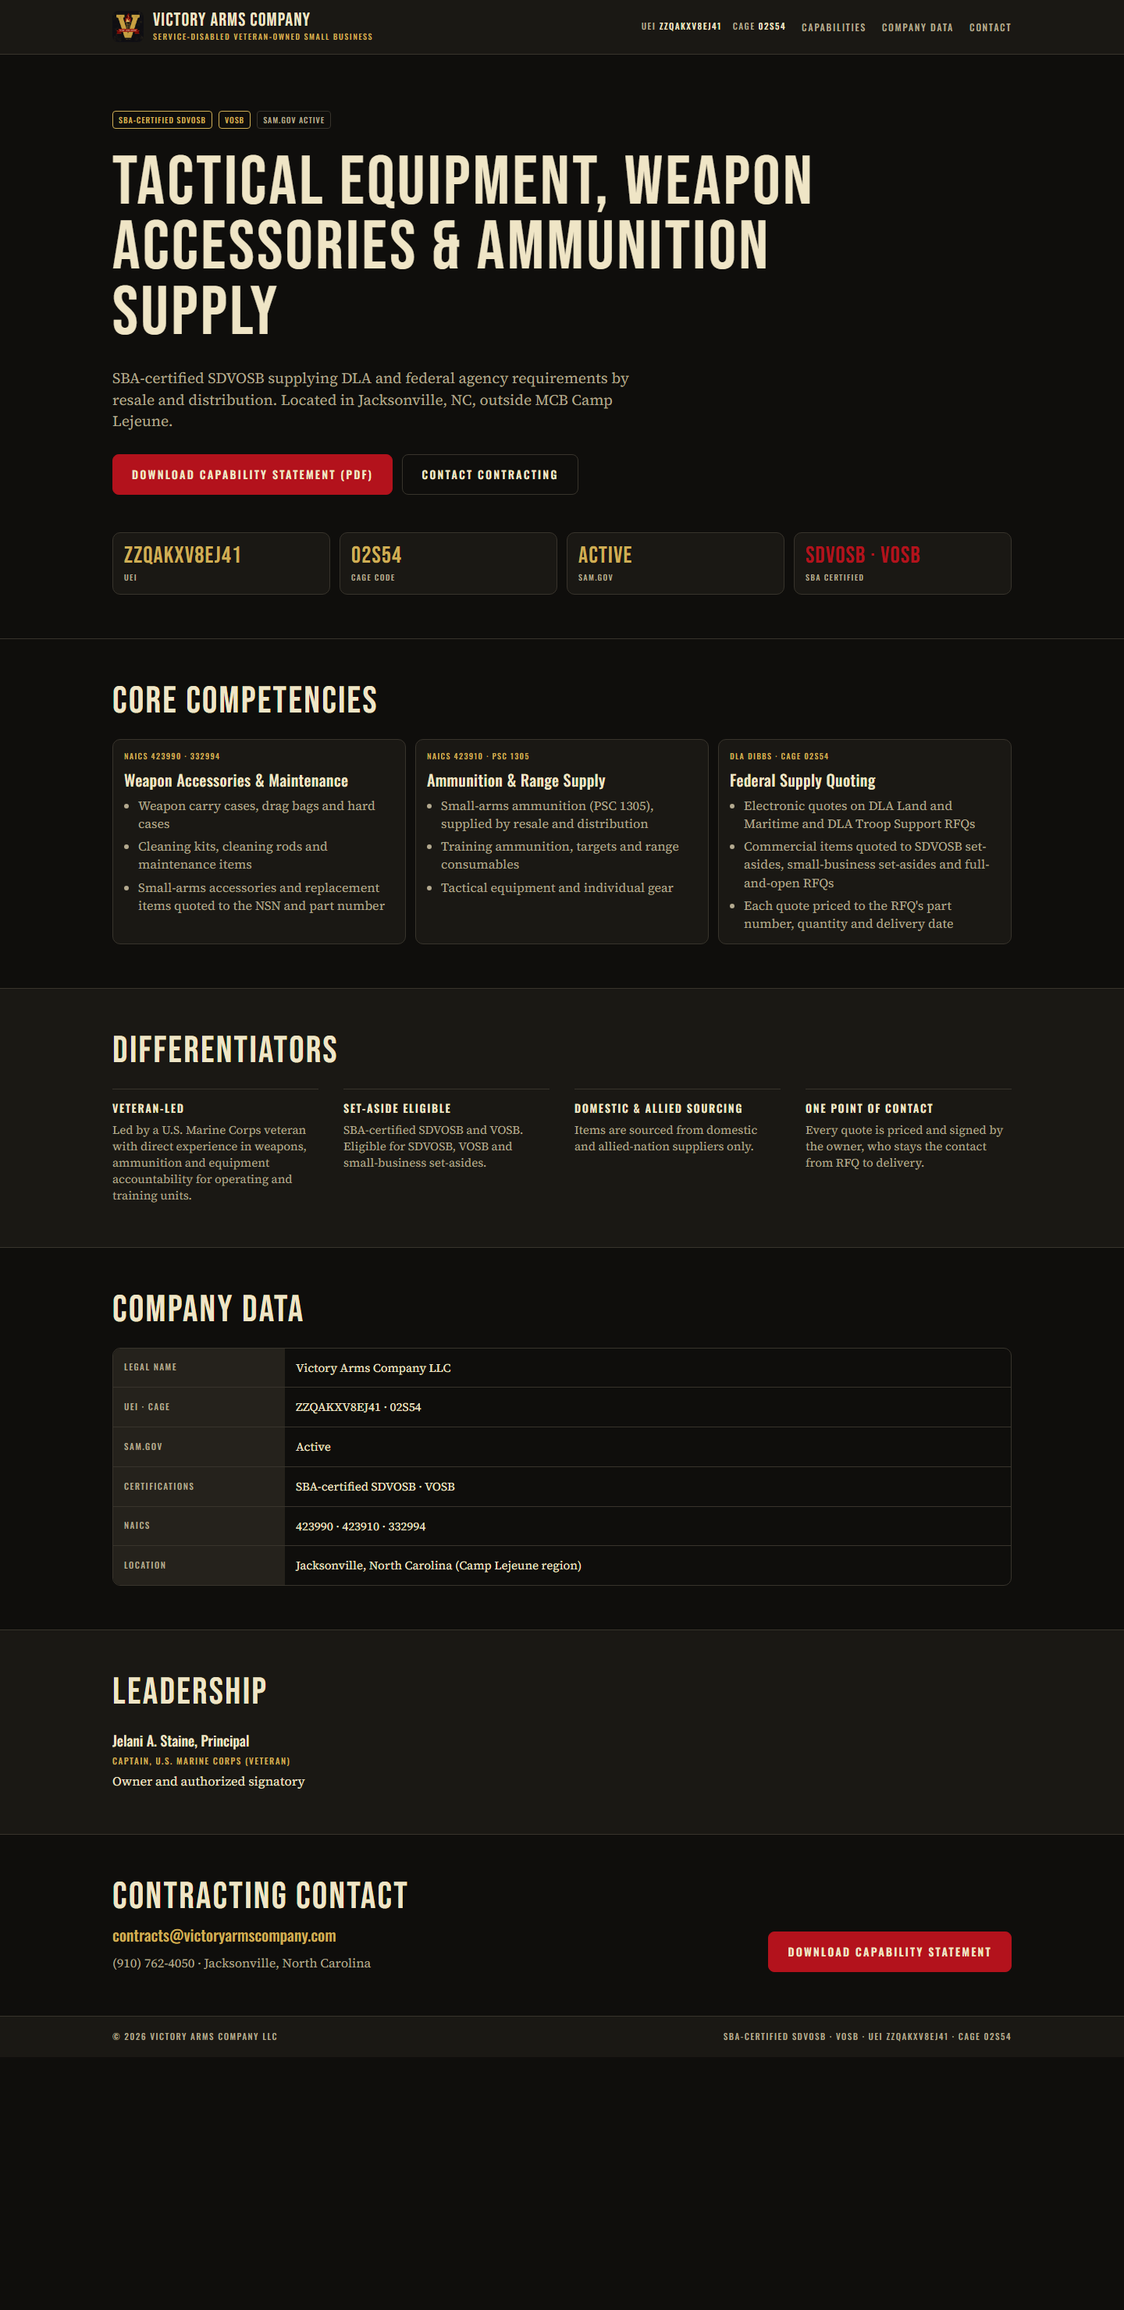
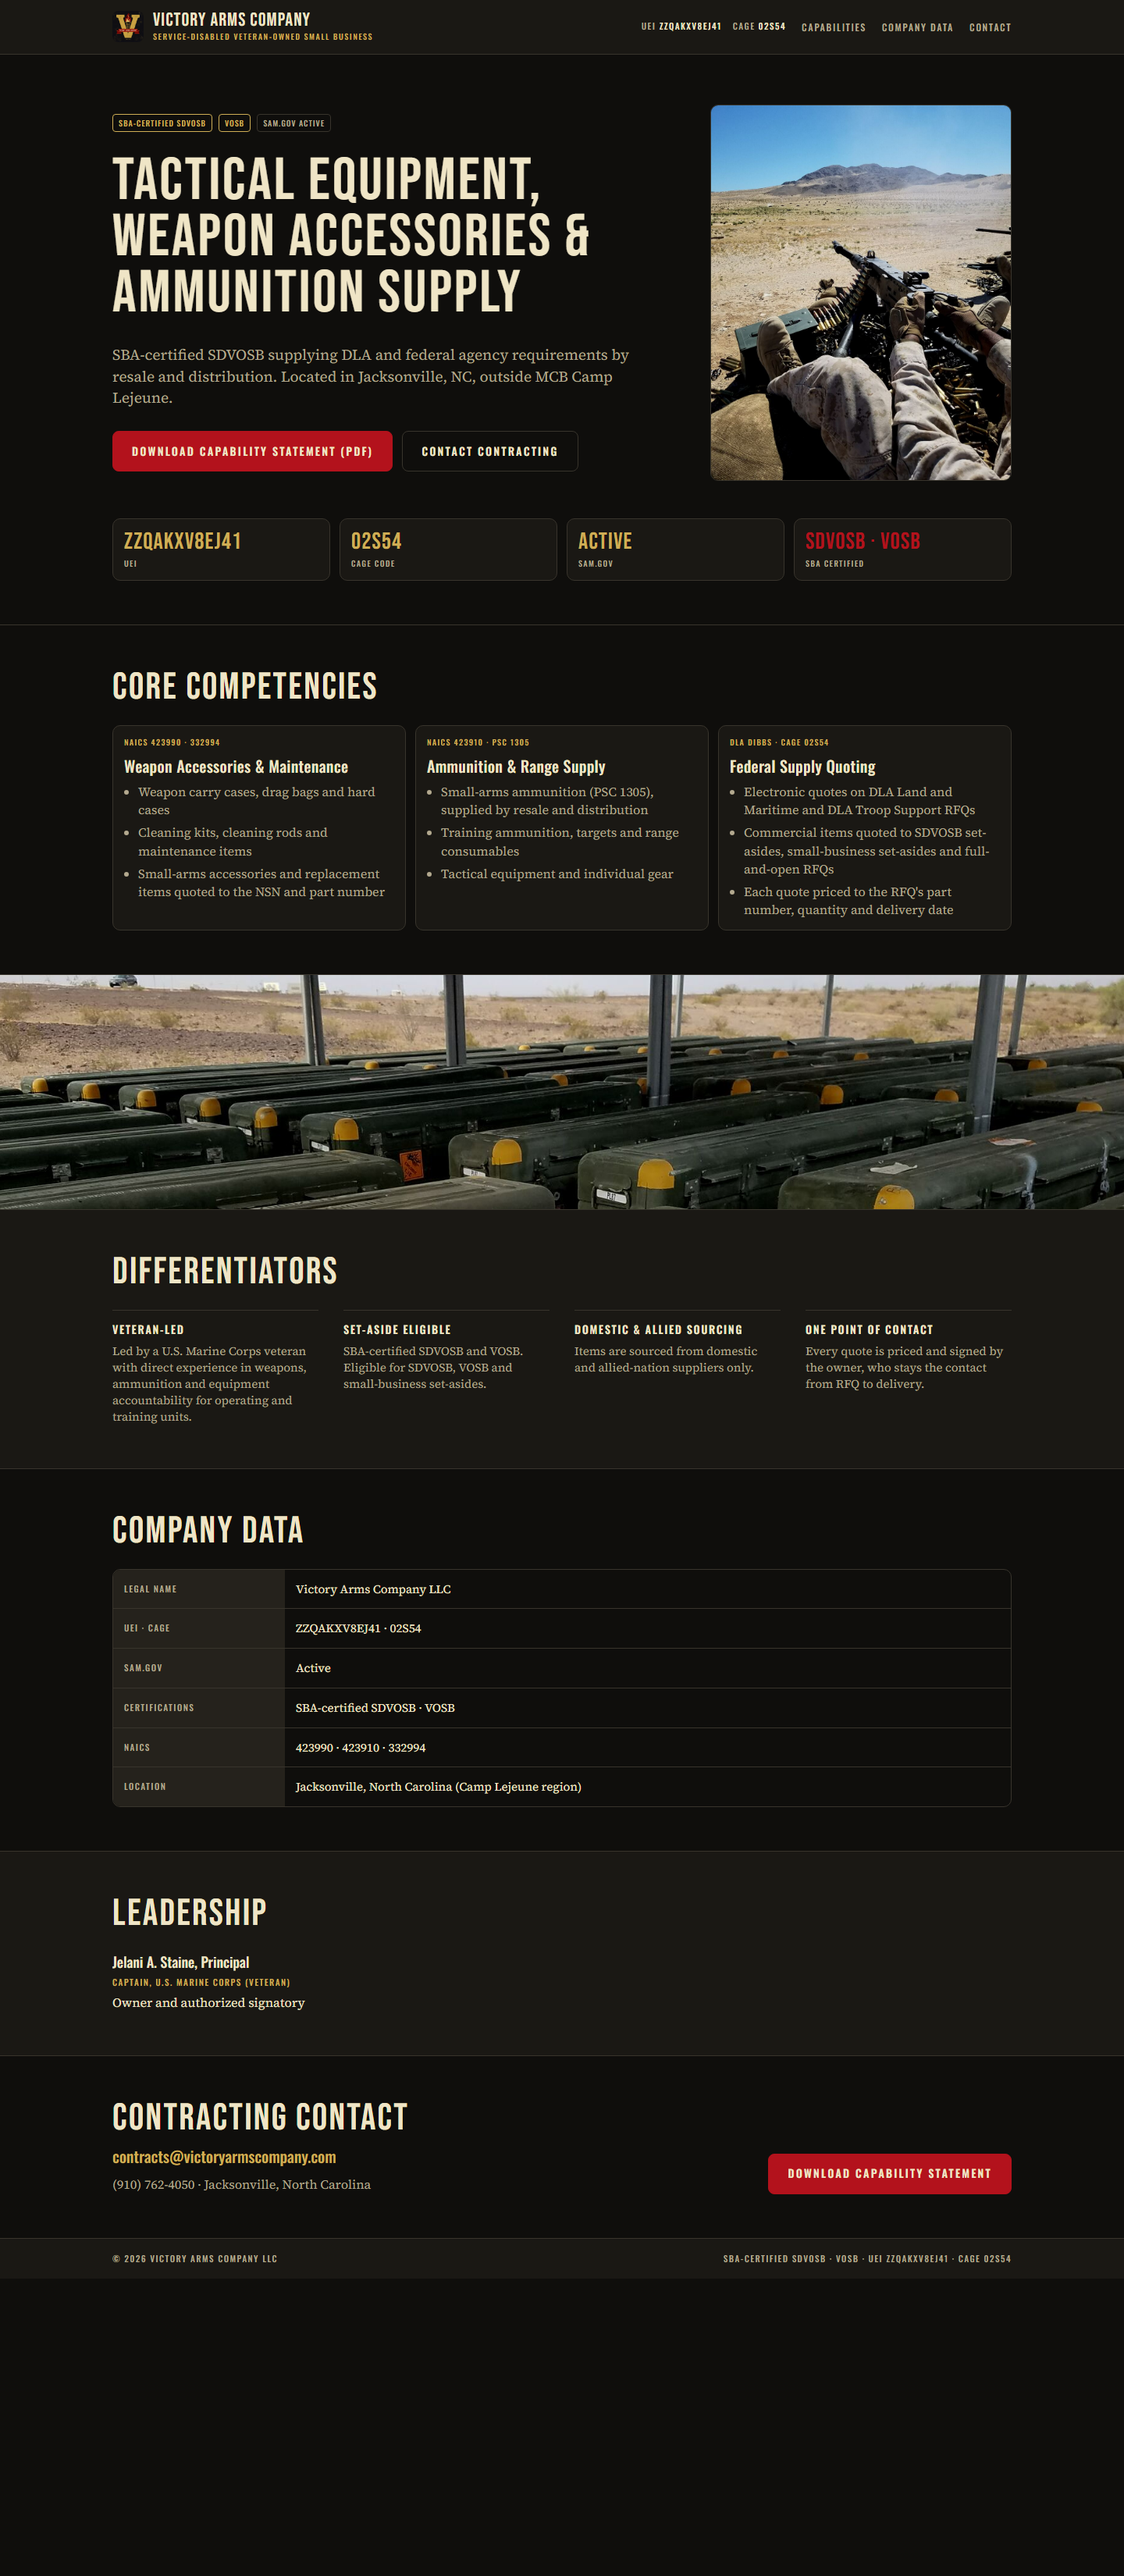
Add two owner photos to the site: hero range photo and a staging band
- Hero is two columns on desktop with the photo at right; on phones the
  photo sits under the buttons.
- A full-width band of staged containers sits between Core Competencies
  and Differentiators, cropped so stencilled markings are out of frame.
- Photos are web-sized, graded and stripped of all metadata; QA now checks
  size, EXIF, alt text and dimensions.
- The Capability Statement PDF is unchanged.

diff --git a/assets/site.css b/assets/site.css
@@ -136,6 +136,15 @@ h1, h2, h3, p, ul { margin: 0; }
 }
 .hero .sub { font-size: 18px; line-height: 1.45; color: var(--muted); max-width: 720px; }
 
+.hero-copy { display: flex; flex-direction: column; gap: 22px; min-width: 0; }
+.hero-photo { display: block; }
+.hero-photo img {
+  display: block; width: 100%; height: auto;
+  border: 1px solid var(--border); border-radius: 10px;
+}
+.band-photo { margin: 0; border-top: 1px solid var(--border); background: var(--surface); }
+.band-photo img { display: block; width: 100%; height: auto; }
+
 /* Metric tiles */
 .tiles { padding: 0 0 40px; }
 .tile-grid { display: grid; grid-template-columns: 1fr 1fr; gap: 12px; }
@@ -215,8 +224,14 @@ dl.data { margin: 0; }
   }
   .nav a { color: var(--muted); }
   .nav a:hover { color: var(--text); }
-  .hero { padding: 72px 0 48px; }
-  .hero .wrap { gap: 28px; }
+  .hero { padding: 64px 0 48px; }
+  .hero .wrap {
+    display: grid; grid-template-columns: minmax(0, 1.3fr) minmax(0, 0.7fr);
+    gap: 48px; align-items: center;
+  }
+  .hero-copy { gap: 28px; }
+  .hero h1 { font-size: clamp(48px, 5.4vw, 76px); }
+  .band-photo img { height: 300px; object-fit: cover; }
   .hero .sub { font-size: 19px; }
   .btn { font-size: 14px; letter-spacing: 0.16em; padding: 0 24px; }
   .btn-row { flex-direction: row; flex-wrap: wrap; }
@@ -239,7 +254,7 @@ dl.data { margin: 0; }
 @media print {
   html, body { background: var(--text); color: var(--bg); }
   body { font-size: 11pt; }
-  .skip, .nav, .btn-row, .contact .btn { display: none; }
+  .skip, .nav, .btn-row, .contact .btn, .hero-photo, .band-photo { display: none; }
   .site-header, .site-footer, .section.alt, .card, .tile { background: transparent; }
   .lockup-name, .ids b, .leader .role, .card h3 { color: var(--bg); }
   .lockup-tag, .card .codes, .leader .service, .badge.cert, .tile .value { color: var(--red); }

diff --git a/index.html b/index.html
@@ -38,6 +38,7 @@
 <main id="main">
 <section class="hero" id="top">
 <div class="wrap">
+<div class="hero-copy">
 <div class="badges"><span class="badge cert">SBA-Certified SDVOSB</span><span class="badge cert">VOSB</span><span class="badge">SAM.gov Active</span></div>
 <h1>Tactical Equipment, Weapon Accessories &amp; Ammunition Supply</h1>
 <p class="sub">SBA-certified SDVOSB supplying DLA and federal agency requirements by resale and distribution. Located in Jacksonville, NC, outside MCB Camp Lejeune.</p>
@@ -45,6 +46,11 @@
 <a class="btn primary" href="assets/VAC_CapabilityStatement.pdf">Download Capability Statement (PDF)</a>
 <a class="btn" href="mailto:contracts@victoryarmscompany.com">Contact Contracting</a>
 </div>
+</div>
+<picture class="hero-photo">
+<source media="(min-width: 1024px)" srcset="assets/img/hero-range-1000.jpg" width="1000" height="1250">
+<img src="assets/img/hero-range-900.jpg" alt="Belt-fed machine gun with linked ammunition and an ammunition can on a desert range" width="900" height="600">
+</picture>
 </div>
 </section>
 
@@ -69,6 +75,13 @@
 </div>
 </div>
 </section>
+
+<figure class="band-photo">
+<picture>
+<source media="(min-width: 700px)" srcset="assets/img/band-staging-1920.jpg" width="1920" height="372">
+<img src="assets/img/band-staging-900.jpg" alt="Rows of transport containers staged under an open shelter" loading="lazy" width="900" height="450">
+</picture>
+</figure>
 
 <section class="section alt" id="differentiators">
 <div class="wrap">

diff --git a/scripts/qa.py b/scripts/qa.py
@@ -27,7 +27,7 @@ FORBIDDEN = [
     r"quartermaster", r"pathfinder", r"sigint", r"googletagmanager", r"fbq\(", r"SAM-[0-9a-f]{8}-",
 ]
 TOKENS = {"#0F0E0C", "#1A1814", "#25221C", "#38342C", "#EFE5C6", "#B3A98F", "#CFAE55", "#B3121C", "#4F8A5B", "#7A776F"}
-VOID = {"meta", "link", "img", "br", "hr", "input"}
+VOID = {"meta", "link", "img", "br", "hr", "input", "source"}
 
 fails: list[str] = []
 
@@ -60,6 +60,7 @@ class Page(HTMLParser):
         self.ids: set[str] = set()
         self.text: list[str] = []
         self.scripts = 0
+        self.imgs: list[dict] = []
 
     def handle_starttag(self, tag, attrs):
         a = dict(attrs)
@@ -71,6 +72,10 @@ class Page(HTMLParser):
             self.srcs.append(a["href"])
         if tag in ("img", "script") and "src" in a:
             self.srcs.append(a["src"])
+        if tag == "source" and "srcset" in a:
+            self.srcs.append(a["srcset"])
+        if tag == "img":
+            self.imgs.append(a)
         if tag == "script" and a.get("type") != "application/ld+json":
             self.scripts += 1
         if tag not in VOID:
@@ -138,6 +143,8 @@ def main() -> int:
         check(not bad_links, f"{name}: every link is internal and resolves, or mailto:{ent['email']} {bad_links}")
         missing = [s for s in pg.srcs if re.match(r"^[a-z]+:", s) or not (ROOT / s).is_file()]
         check(not missing, f"{name}: every stylesheet, image and icon is local and present {missing}")
+        no_alt = [i.get("src") for i in pg.imgs if not i.get("alt") or not i.get("width") or not i.get("height")]
+        check(not no_alt, f"{name}: every image has alt text, width and height {no_alt}")
         text = " ".join(pg.text)
         for key in ("uei", "cage", "email", "phone", "legal_name"):
             check(str(ent[key]) in text, f"{name}: shows {key} from vac.json")
@@ -151,6 +158,13 @@ def main() -> int:
     # 4. fonts and license
     fonts = sorted(p.name for p in (ROOT / "assets" / "fonts").glob("*.woff2"))
     check(len(fonts) == 4 and (ROOT / "assets" / "fonts" / "OFL.txt").is_file(), f"self-hosted fonts + OFL license present {fonts}")
+
+    # 4b. photos: web-sized, metadata stripped (no EXIF block, so no location or device data)
+    photos = sorted((ROOT / "assets" / "img").glob("*.jpg"))
+    big = [p.name for p in photos if p.stat().st_size > 400_000]
+    exif = [p.name for p in photos if b"Exif\x00\x00" in p.read_bytes()[:65536]]
+    check(not big, f"photos are each under 400 KB ({len(photos)} files) {big}")
+    check(not exif, f"photos carry no EXIF metadata {exif}")
 
     # 5. PDF
     stamp = v["site"]["statement_date"].replace("-", "")

diff --git a/scripts/build.py b/scripts/build.py
@@ -158,6 +158,7 @@ def build_index(v: dict) -> str:
 <main id="main">
 <section class="hero" id="top">
 <div class="wrap">
+<div class="hero-copy">
 <div class="badges">{badges}</div>
 <h1>{e(cp["headline"])}</h1>
 <p class="sub">{e(cp["subhead"])}</p>
@@ -165,6 +166,11 @@ def build_index(v: dict) -> str:
 <a class="btn primary" href="{pdf}">{e(cp["cta_primary"])}</a>
 <a class="btn" href="mailto:{e(ent["email"])}">{e(cp["cta_secondary"])}</a>
 </div>
+</div>
+<picture class="hero-photo">
+<source media="(min-width: 1024px)" srcset="assets/img/hero-range-1000.jpg" width="1000" height="1250">
+<img src="assets/img/hero-range-900.jpg" alt="Belt-fed machine gun with linked ammunition and an ammunition can on a desert range" width="900" height="600">
+</picture>
 </div>
 </section>
 
@@ -187,6 +193,13 @@ def build_index(v: dict) -> str:
 </div>
 </div>
 </section>
+
+<figure class="band-photo">
+<picture>
+<source media="(min-width: 700px)" srcset="assets/img/band-staging-1920.jpg" width="1920" height="372">
+<img src="assets/img/band-staging-900.jpg" alt="Rows of transport containers staged under an open shelter" loading="lazy" width="900" height="450">
+</picture>
+</figure>
 
 <section class="section alt" id="differentiators">
 <div class="wrap">
